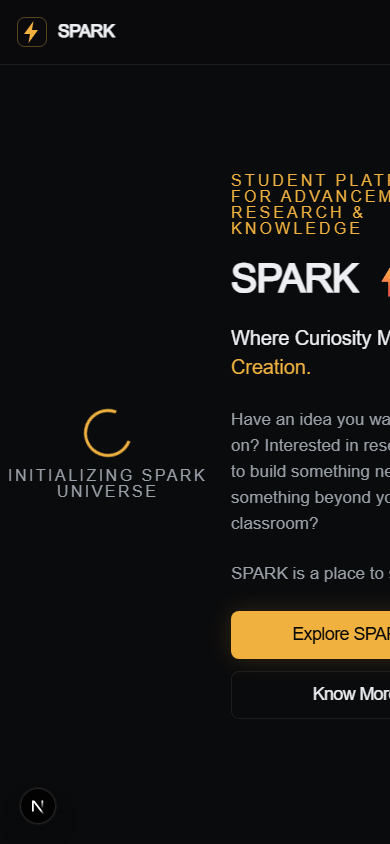
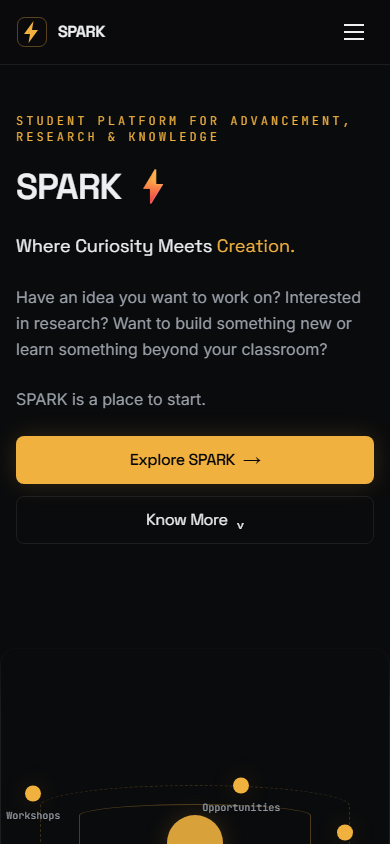
fix: refine SPARK responsive home layout

diff --git a/src/components/layout/Navbar.tsx b/src/components/layout/Navbar.tsx
@@ -2,7 +2,7 @@
 
 import Link from "next/link";
 import { usePathname } from "next/navigation";
-import { useState } from "react";
+import { useEffect, useState } from "react";
 import { navigation } from "@/content/navigation";
 import { site } from "@/content/site";
 import { cn } from "@/lib/utils";
@@ -10,8 +10,9 @@ import { Logo } from "@/components/shared/Logo";
 import { Button } from "@/components/ui/Button";
 
 /**
- * Primary navigation shell. Sticky, responsive (collapsible on mobile),
- * keyboard accessible (aria-expanded/controls, closes on route change).
+ * Primary navigation shell. Sticky, responsive (collapsible below lg),
+ * keyboard accessible (aria-expanded/controls, Escape closes, closes on
+ * navigation).
  */
 export function Navbar() {
   const pathname = usePathname();
@@ -24,6 +25,16 @@ export function Navbar() {
     setOpen(false);
   }
 
+  // Escape closes the mobile menu.
+  useEffect(() => {
+    if (!open) return;
+    const onKeyDown = (e: KeyboardEvent) => {
+      if (e.key === "Escape") setOpen(false);
+    };
+    window.addEventListener("keydown", onKeyDown);
+    return () => window.removeEventListener("keydown", onKeyDown);
+  }, [open]);
+
   const isActive = (href: string) => (href === "/" ? pathname === href : pathname.startsWith(href));
 
   return (
@@ -34,7 +45,7 @@ export function Navbar() {
           <span className="font-display text-base font-semibold tracking-tight text-ink">{site.name}</span>
         </Link>
 
-        <div className="hidden items-center gap-1 md:flex">
+        <div className="hidden items-center gap-1 lg:flex">
           {navigation.items.map((item) => (
             <Link
               key={item.href}
@@ -59,7 +70,7 @@ export function Navbar() {
           aria-expanded={open}
           aria-controls="mobile-nav"
           aria-label="Toggle navigation menu"
-          className="flex size-10 items-center justify-center rounded-sm text-ink transition-colors duration-200 hover:text-accent md:hidden"
+          className="flex size-10 items-center justify-center rounded-sm text-ink transition-colors duration-200 hover:text-accent lg:hidden"
         >
           <span className="relative block h-4 w-5" aria-hidden>
             <span
@@ -85,12 +96,13 @@ export function Navbar() {
       </nav>
 
       {open ? (
-        <nav id="mobile-nav" aria-label="Mobile" className="border-t border-line md:hidden">
+        <nav id="mobile-nav" aria-label="Mobile" className="border-t border-line lg:hidden">
           <div className="mx-auto flex w-full max-w-7xl flex-col gap-1 px-4 py-4 sm:px-6">
             {navigation.items.map((item) => (
               <Link
                 key={item.href}
                 href={item.href}
+                onClick={() => setOpen(false)}
                 aria-current={isActive(item.href) ? "page" : undefined}
                 className={cn(
                   "rounded-sm px-3 py-2.5 text-sm text-ink-secondary transition-colors duration-200 hover:text-ink",
@@ -100,7 +112,7 @@ export function Navbar() {
                 {item.label}
               </Link>
             ))}
-            <Button href={navigation.cta.href} variant="outline" size="sm" className="mt-2 self-start">
+            <Button href={navigation.cta.href} onClick={() => setOpen(false)} variant="outline" size="sm" className="mt-2 self-start">
               {navigation.cta.label}
             </Button>
           </div>

diff --git a/src/app/page.tsx b/src/app/page.tsx
@@ -68,23 +68,15 @@ export default function Home() {
   return (
     <>
       {/* ── HERO ── */}
+      {/* Single column below lg (content → visual). Two-column 42/58 split at lg+. */}
       <section
         id="hero"
-        className="relative min-h-[calc(100svh-4rem)] grid grid-cols-[1fr_58%] lg:grid-cols-[42%_58%] overflow-hidden border-b border-line"
+        className="relative min-h-[calc(100svh-4rem)] lg:grid lg:grid-cols-[42%_58%] overflow-hidden border-b border-line"
       >
         <SectionIndicator number="01" />
 
-        {/* 3D visual — right column */}
-        <div className="relative h-full w-full lg:col-start-2 lg:row-start-1 z-3d">
-          <HeroMount className="h-full w-full" />
-          {/* Fade left edge on desktop */}
-          <div aria-hidden className="pointer-events-none absolute inset-0 hidden lg:block bg-gradient-to-r from-base via-base/10 to-transparent" />
-          {/* Fade bottom on mobile */}
-          <div aria-hidden className="pointer-events-none absolute inset-x-0 bottom-0 h-24 bg-gradient-to-t from-base to-transparent lg:hidden" />
-        </div>
-
-        {/* Content — left column */}
-        <Container className="relative z-content pt-12 pb-16 lg:pt-20 lg:pb-24 lg:col-start-1 lg:row-start-1 self-center">
+        {/* Content — first in DOM: natural flow on mobile/tablet, left cell on desktop */}
+        <Container className="relative z-content pt-12 pb-16 lg:pt-20 lg:pb-24 lg:col-start-1 lg:row-start-1 lg:self-center">
           <div className="max-w-2xl flex flex-col gap-6">
             <p className="font-mono text-xs uppercase tracking-[0.25em] text-accent">
               STUDENT PLATFORM FOR ADVANCEMENT, RESEARCH & KNOWLEDGE
@@ -123,6 +115,15 @@ export default function Home() {
 
           <ScrollIndicator />
         </Container>
+
+        {/* 3D visual — contained block below content on mobile/tablet, right cell on desktop */}
+        <div className="relative z-3d mt-10 mx-auto w-full max-w-md h-[360px] overflow-hidden sm:max-w-lg sm:h-[440px] lg:mt-0 lg:mx-0 lg:max-w-none lg:h-full lg:col-start-2 lg:row-start-1">
+          <HeroMount className="h-full w-full" />
+          {/* Fade edges into background */}
+          <div aria-hidden className="pointer-events-none absolute inset-0 hidden lg:block bg-gradient-to-r from-base via-base/10 to-transparent" />
+          <div aria-hidden className="pointer-events-none absolute inset-x-0 top-0 h-16 bg-gradient-to-b from-base/80 to-transparent lg:hidden" />
+          <div aria-hidden className="pointer-events-none absolute inset-x-0 bottom-0 h-16 bg-gradient-to-t from-base to-transparent lg:hidden" />
+        </div>
       </section>
 
       {/* ── INTRO / WHO WE ARE ── */}

diff --git a/src/components/three/SparkScene.tsx b/src/components/three/SparkScene.tsx
@@ -1,6 +1,6 @@
 "use client";
 
-import { Canvas, useFrame } from "@react-three/fiber";
+import { Canvas, useFrame, useThree } from "@react-three/fiber";
 import { OrbitControls, Html } from "@react-three/drei";
 import * as THREE from "three";
 import { useEffect, useMemo, useRef, useState } from "react";
@@ -242,6 +242,7 @@ function SparkNode({ node, onSelect, selectedId, reduced }: SparkNodeProps) {
       {/* Label via Html overlay — mirrors the locked hero composition */}
       <Html
         transform
+        center
         position={[x, 1.5, z]}
         style={{
           pointerEvents: "none",
@@ -281,6 +282,24 @@ function FpsGuard({ onThrottle }: { onThrottle: (throttle: boolean) => void }) {
   useEffect(() => {
     onThrottle(shouldThrottle);
   }, [shouldThrottle, onThrottle]);
+
+  return null;
+}
+
+/* ── ResponsiveCamera (keeps scene contained on narrow canvases) ───────── */
+
+function ResponsiveCamera() {
+  const camera = useThree((state) => state.camera);
+  const size = useThree((state) => state.size);
+
+  useEffect(() => {
+    const aspect = size.width / Math.max(size.height, 1);
+    // Narrow (mobile-block) canvases pull back so orbiting nodes and labels
+    // stay inside the viewport; wide hero canvases keep the approved framing.
+    const z = aspect < 1.1 ? 27 : 18;
+    camera.position.set(0, 5, z);
+    camera.lookAt(0, 0, 0);
+  }, [camera, size]);
 
   return null;
 }
@@ -326,6 +345,7 @@ function SparkSceneInner({ onNodeSelect, selectedNodeId }: SparkSceneInnerProps)
         <pointLight position={[0, 0, 0]} color={0xf0b13f} intensity={0.3} distance={20} decay={2} />
 
         {/* Scene objects */}
+        <ResponsiveCamera />
         <TechnicalGrid />
         <OrbitRings reduced={reduced} />
         <SparkCore reduced={reduced} />

diff --git a/src/app/layout.tsx b/src/app/layout.tsx
@@ -65,7 +65,7 @@ export default function RootLayout({ children }: LayoutProps<"/">) {
       lang="en"
       className={`${spaceGrotesk.variable} ${inter.variable} ${jetbrainsMono.variable} h-full antialiased`}
     >
-      <body className="flex min-h-full flex-col bg-base font-sans text-ink">
+      <body className="flex min-h-full flex-col overflow-x-hidden bg-base font-sans text-ink">
         <SkipLink />
         <Navbar />
         <main id="main" className="flex-1">
